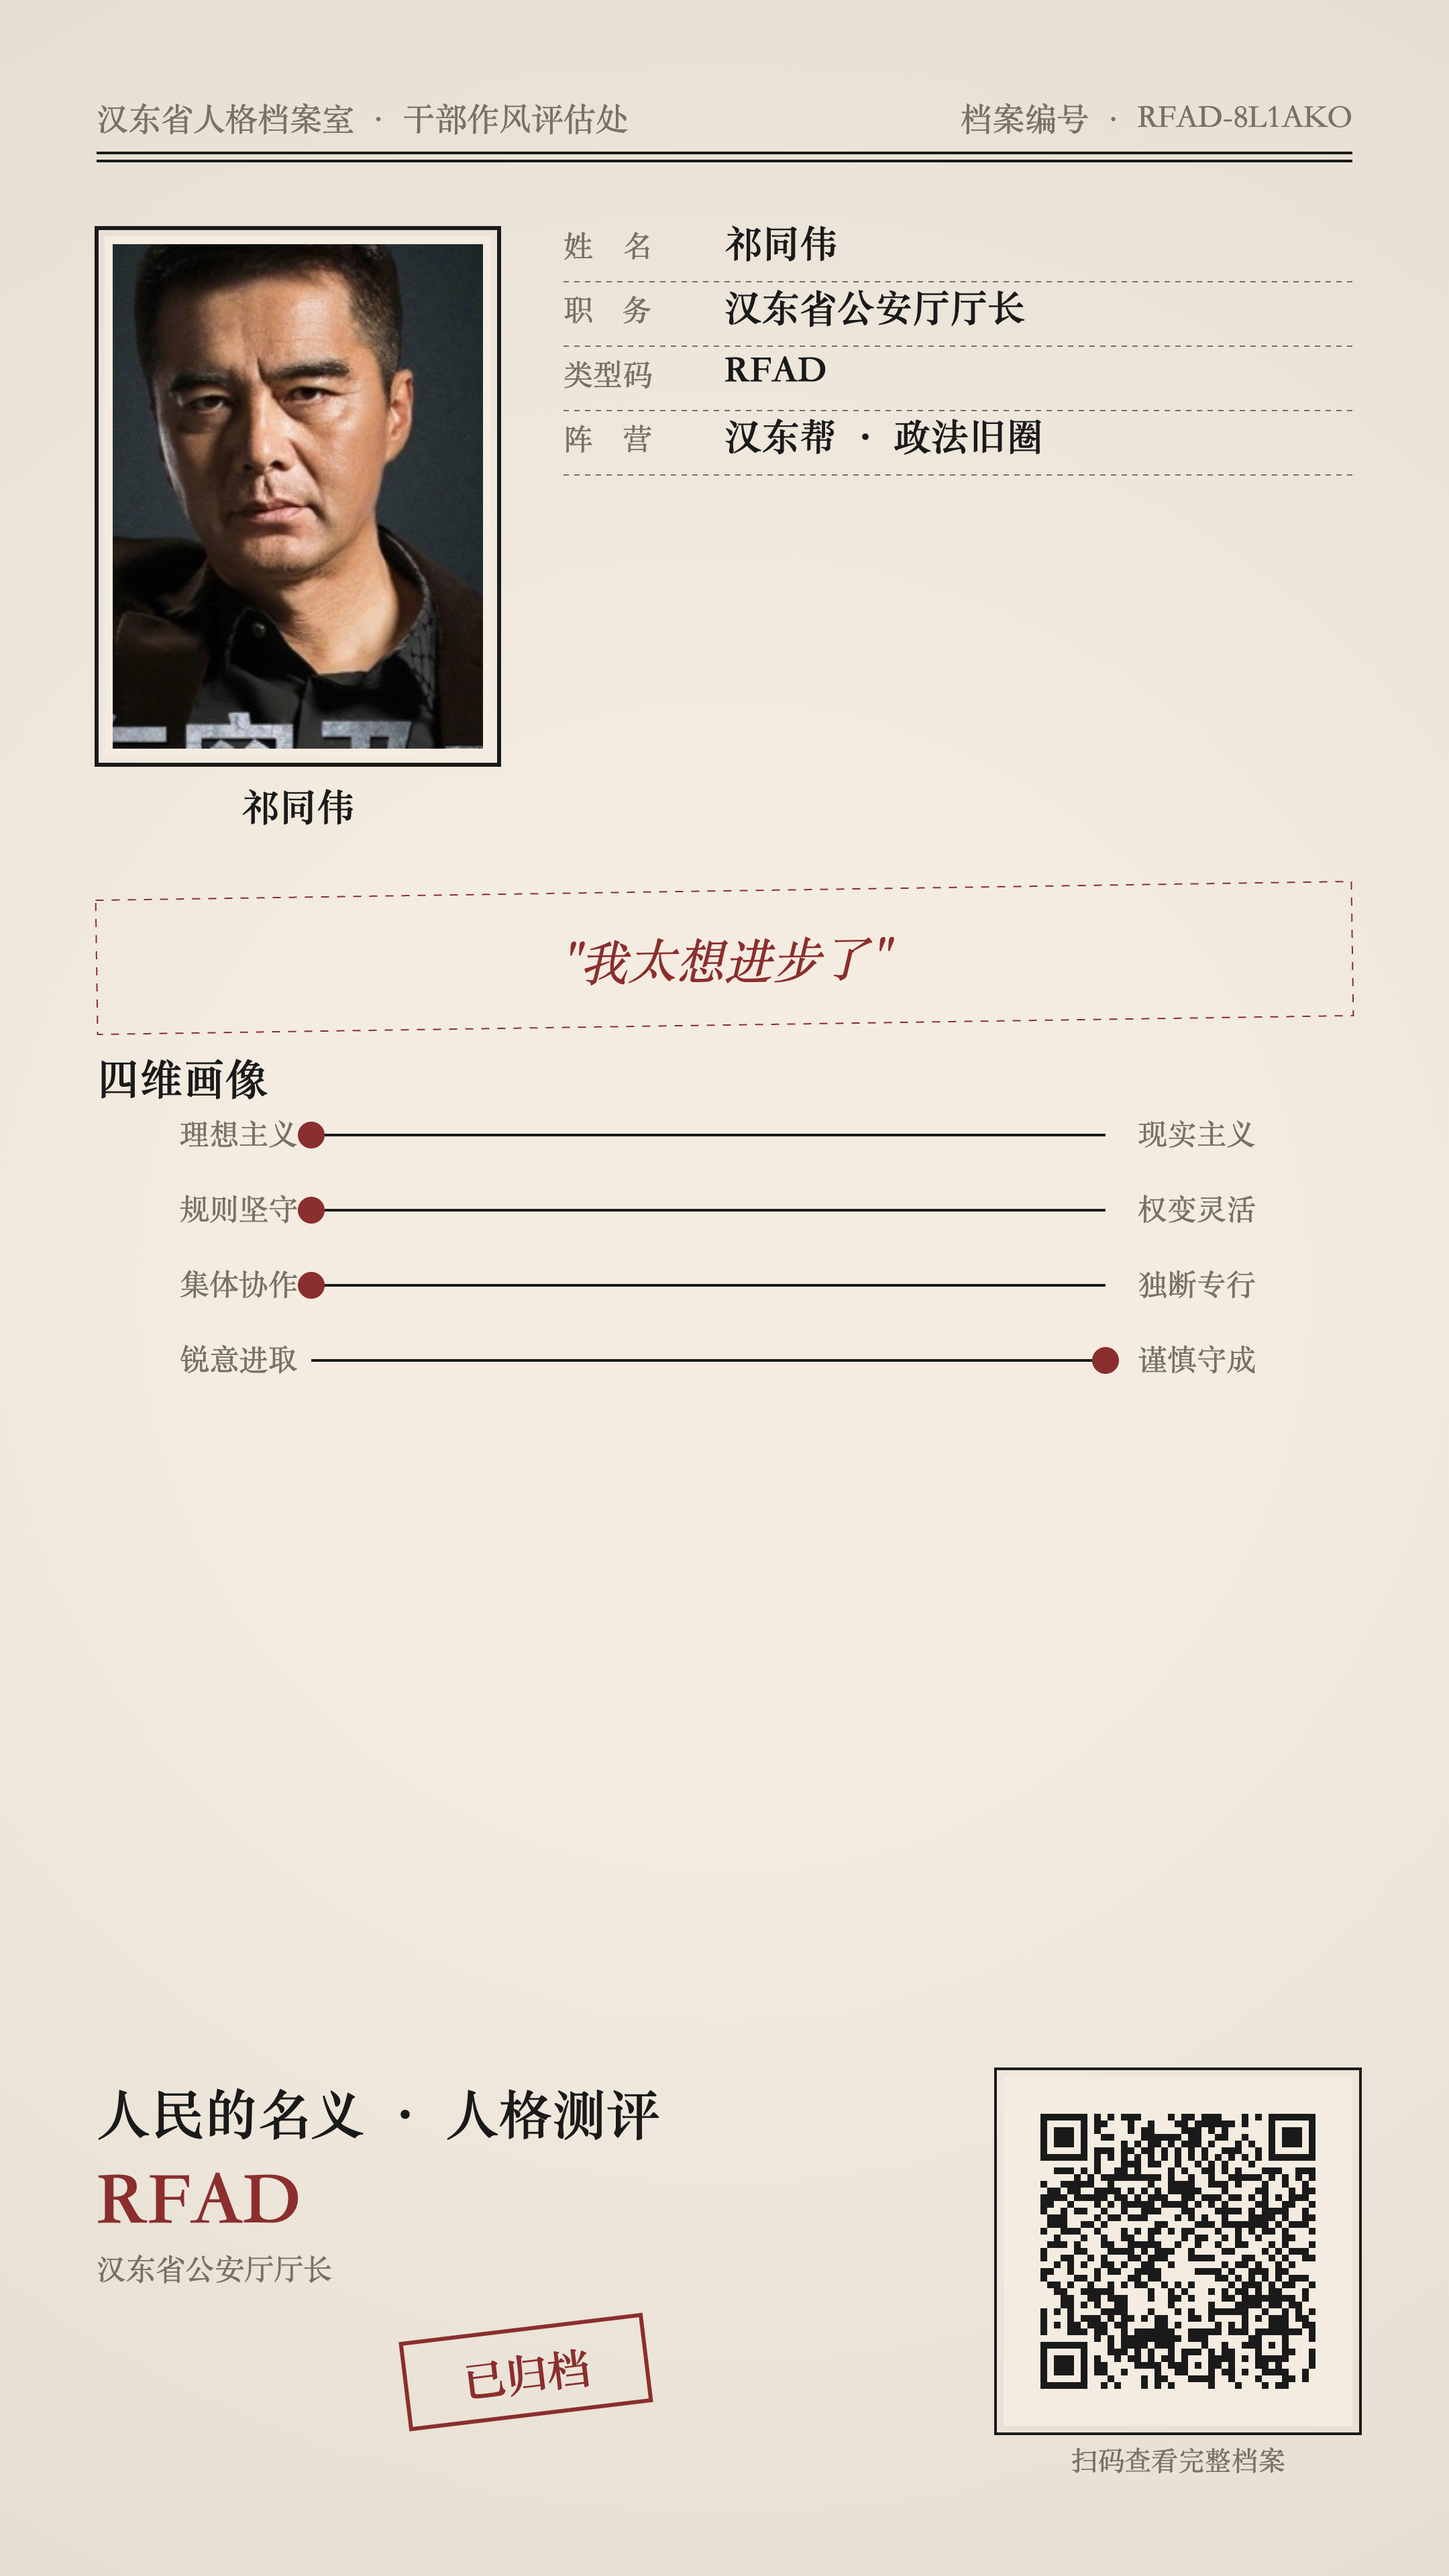
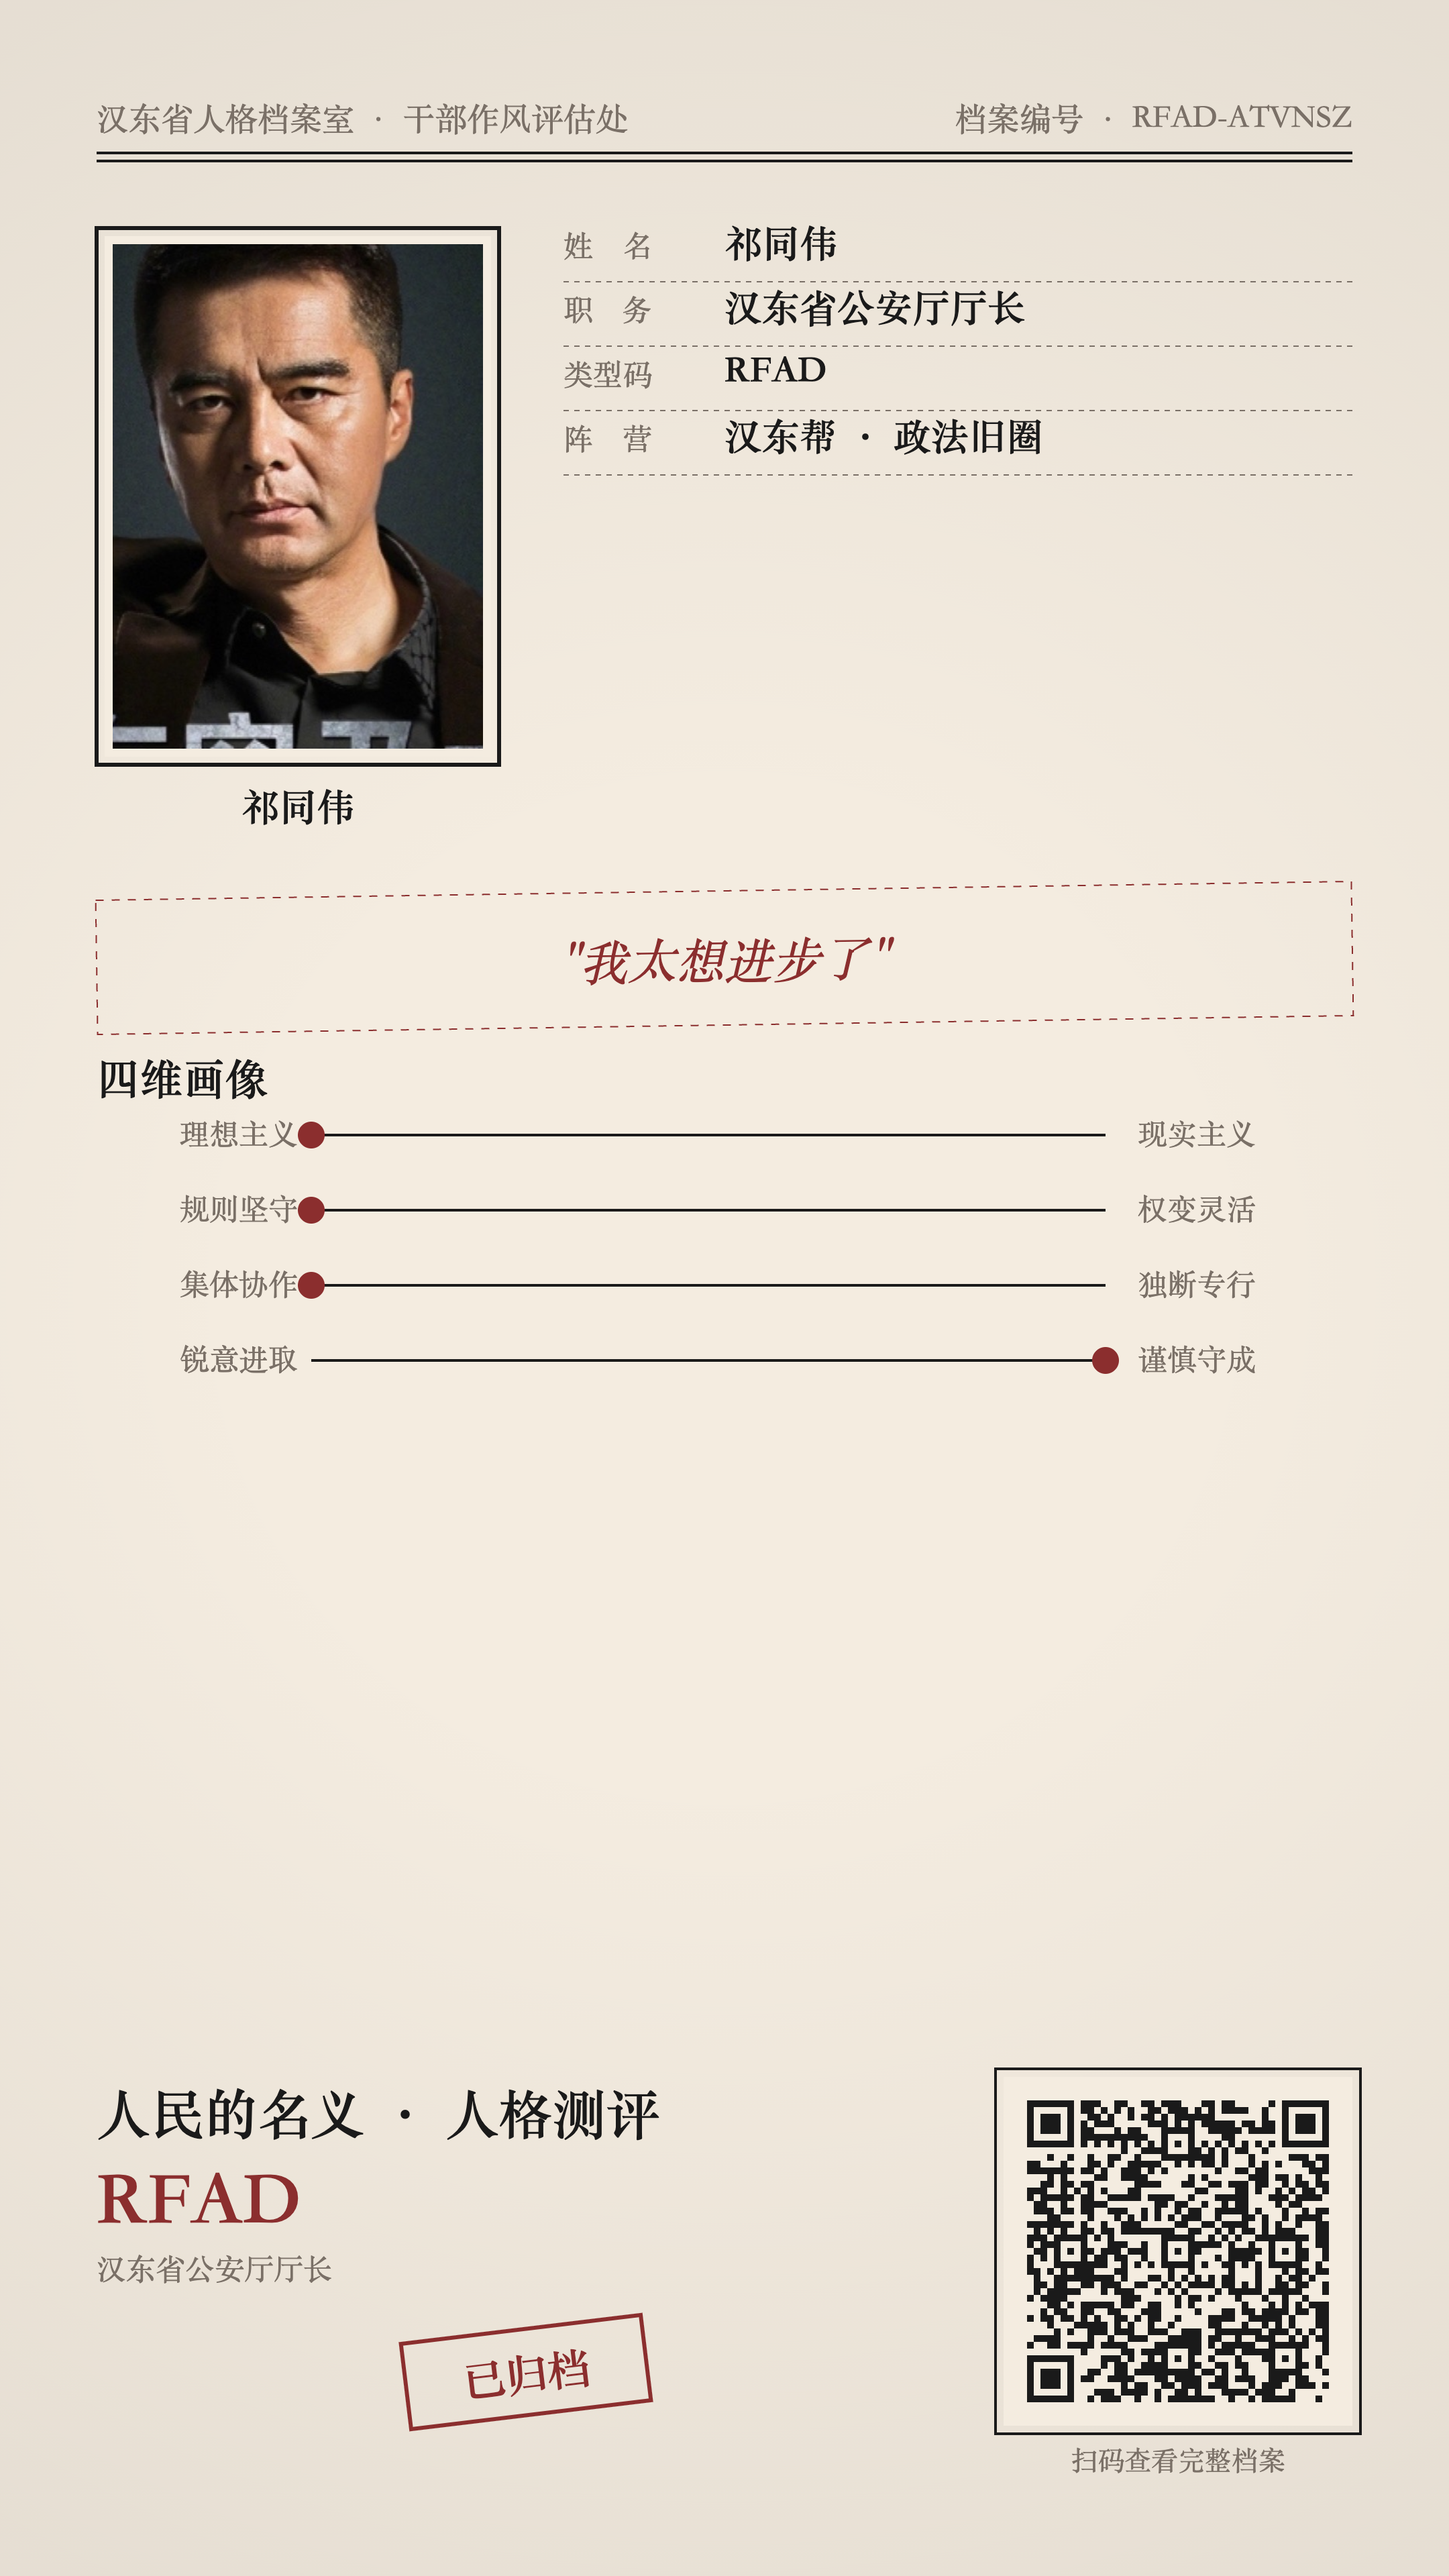
chore(marketing): recapture share image with production QR
Regenerate assets/raw/09_longimage.png from the live
handong-archive.pages.dev deployment so the embedded QR
code links to the real result URL instead of localhost.

Changed region(s): [[0.6824, 0.8125, 0.9306, 0.9375], [0.7755, 0.0312, 0.9306, 0.0625], [0.6514, 0.0312, 0.7444, 0.0625]]

diff --git a/docs/marketing/screenshots-and-assets.md b/docs/marketing/screenshots-and-assets.md
@@ -83,7 +83,7 @@
 - [x] 源截图拍齐，存 `docs/marketing/assets/raw/`（11 张，覆盖桌面+移动）
 - [ ] 适配封面剪好，存 `docs/marketing/assets/platform/`
 - [x] 部署到正式域名：<https://handong-archive.pages.dev>（文案里的 `[链接]` 已替换）
-- [ ] 重拍 `09_longimage.png`（当前的二维码指向 `localhost`，**部署后必须重拍**）
+- [x] `09_longimage.png` 已重拍，二维码指向 `https://handong-archive.pages.dev`
 - [ ] 分享长图里的二维码用手机扫一下能正确跳转结果页
 - [ ] 所有截图里没有开发者工具、调试红框、`localhost` 字样
 - [ ] 没有泄露个人信息（浏览器书签栏、标签页名、系统通知）

diff --git a/docs/marketing/README.md b/docs/marketing/README.md
@@ -17,7 +17,7 @@
 - [x] 桌面 + 移动源截图共 11 张（`assets/raw/`）
 - [x] 站点 Cloudflare Pages 已部署：<https://handong-archive.pages.dev>
 - [x] 所有文案里的 `[链接]` 已替换为正式域名
-- [ ] **部署后**：重拍分享长图 `assets/raw/09_longimage.png`（当前二维码指向 localhost，不能用）
+- [x] 分享长图 `assets/raw/09_longimage.png` 已用正式域名重拍
 - [ ] 自己完整跑一遍：首页 → 答题 → 结果页 → 生成长图 → 扫码复活
 - [ ] 剪各平台适配封面图（16:9 / 9:16 / 1:1），存 `assets/platform/`
 - [ ] 分享长图里的二维码扫一下确认能打开目标页
